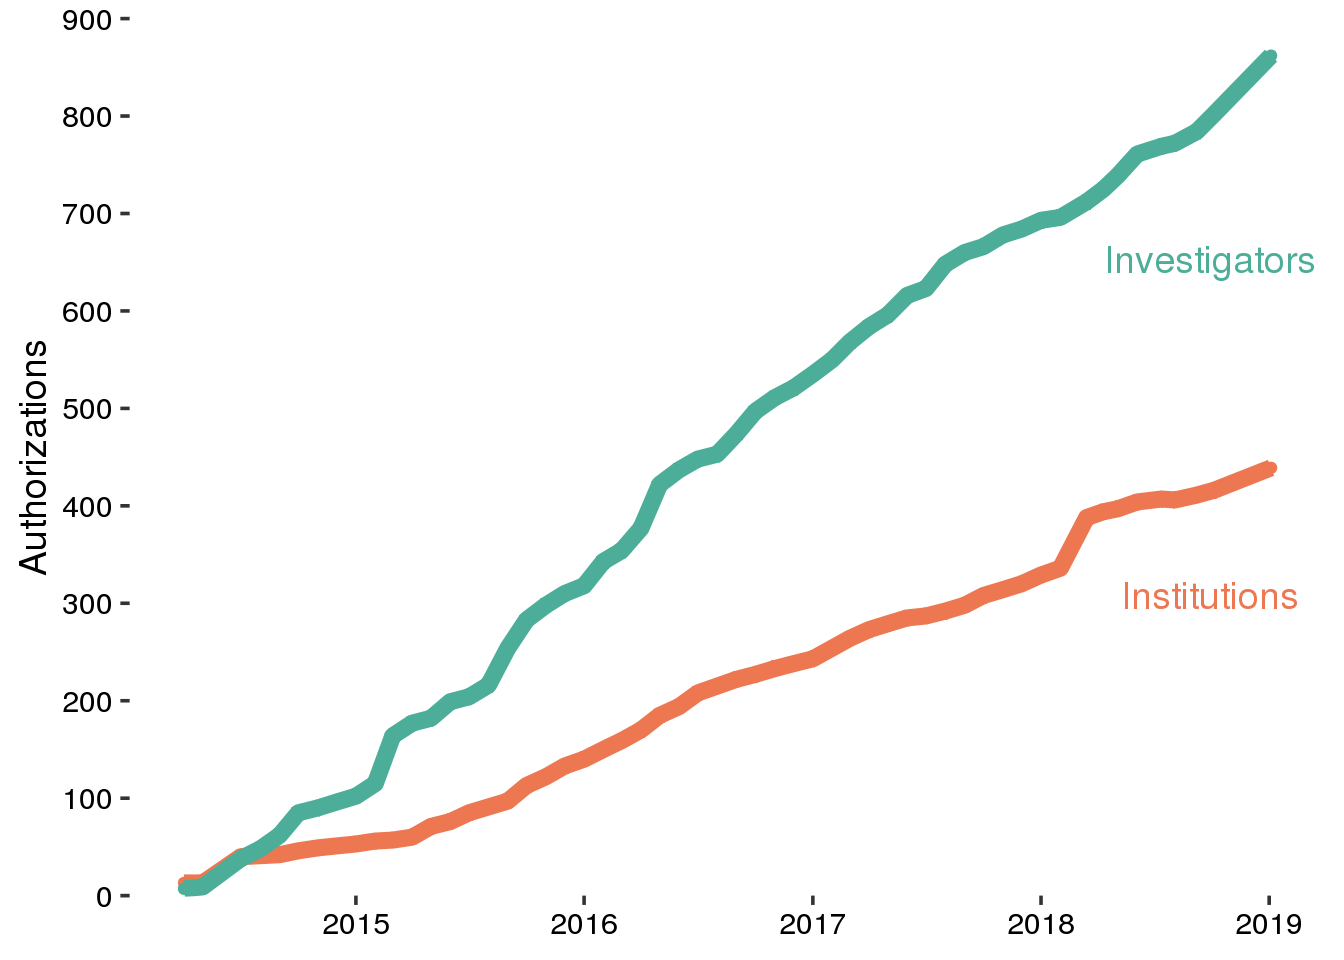
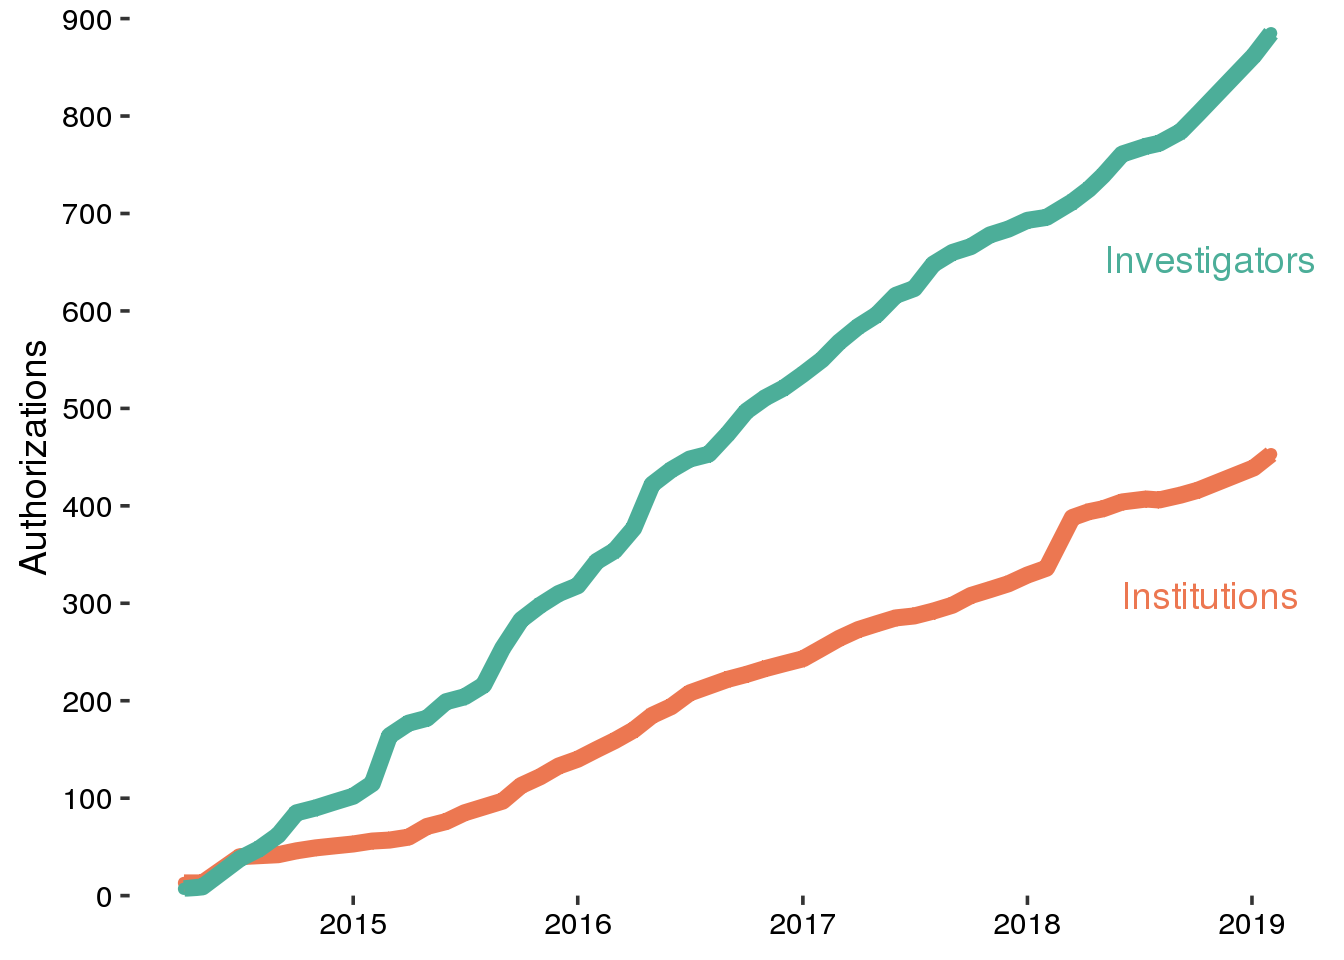
update with 2/1/2019 data

diff --git a/databrary-user-growth.html b/databrary-user-growth.html
@@ -301,7 +301,7 @@ div.tocify {
 
 <h1 class="title toc-ignore">databrary-user-growth</h1>
 <h4 class="author"><em>Andrea R. Seisler</em></h4>
-<h4 class="date"><em>2019-01-30 13:43:58</em></h4>
+<h4 class="date"><em>2019-02-01 09:16:12</em></h4>
 
 </div>
 
